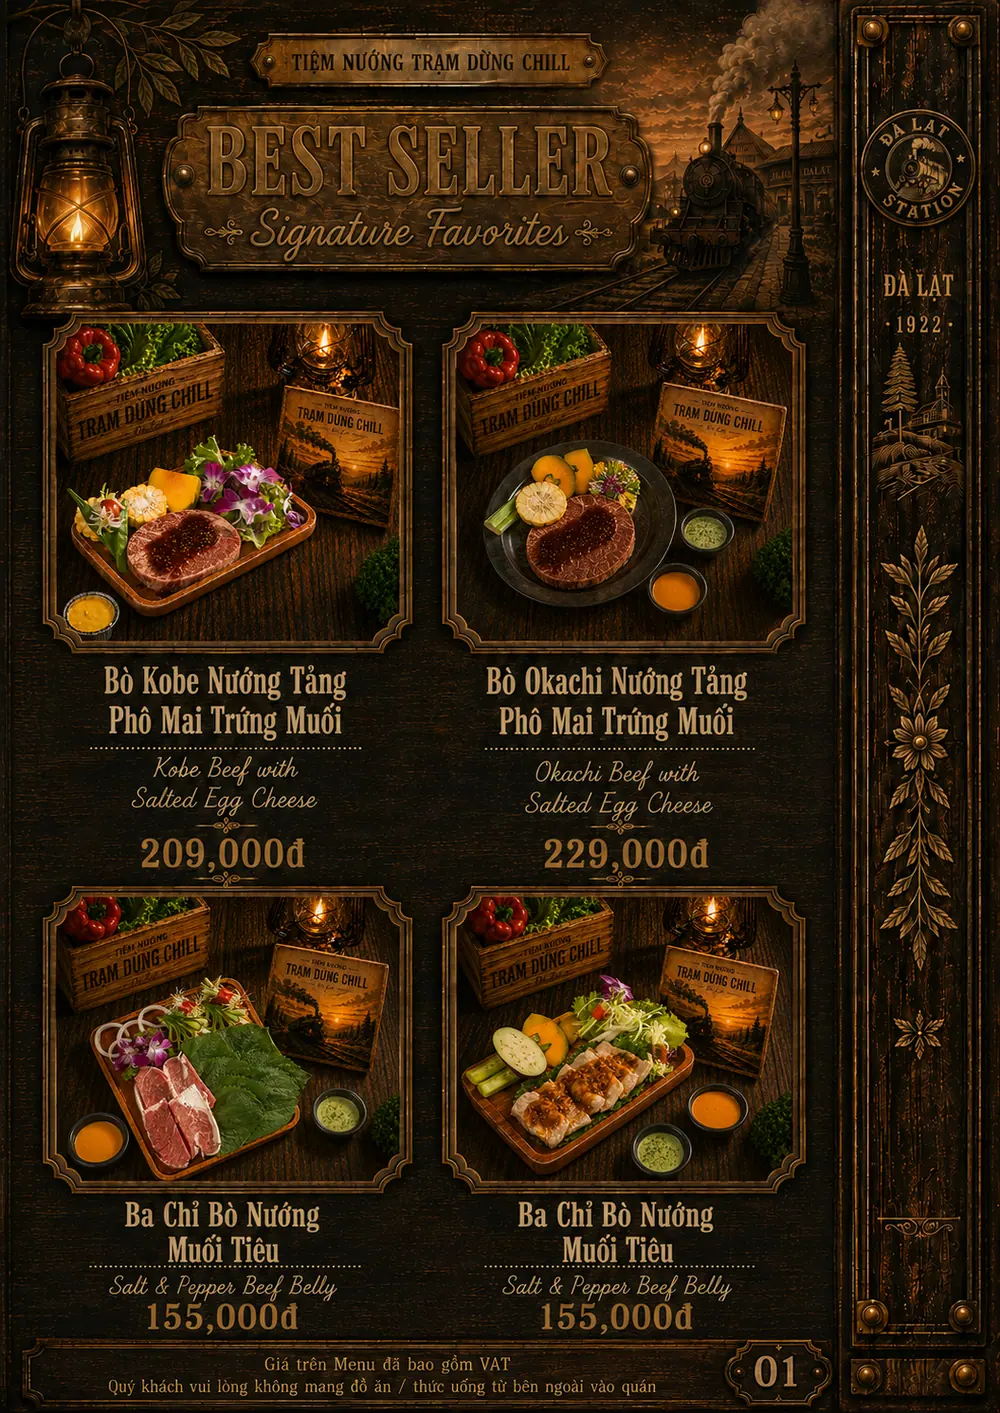
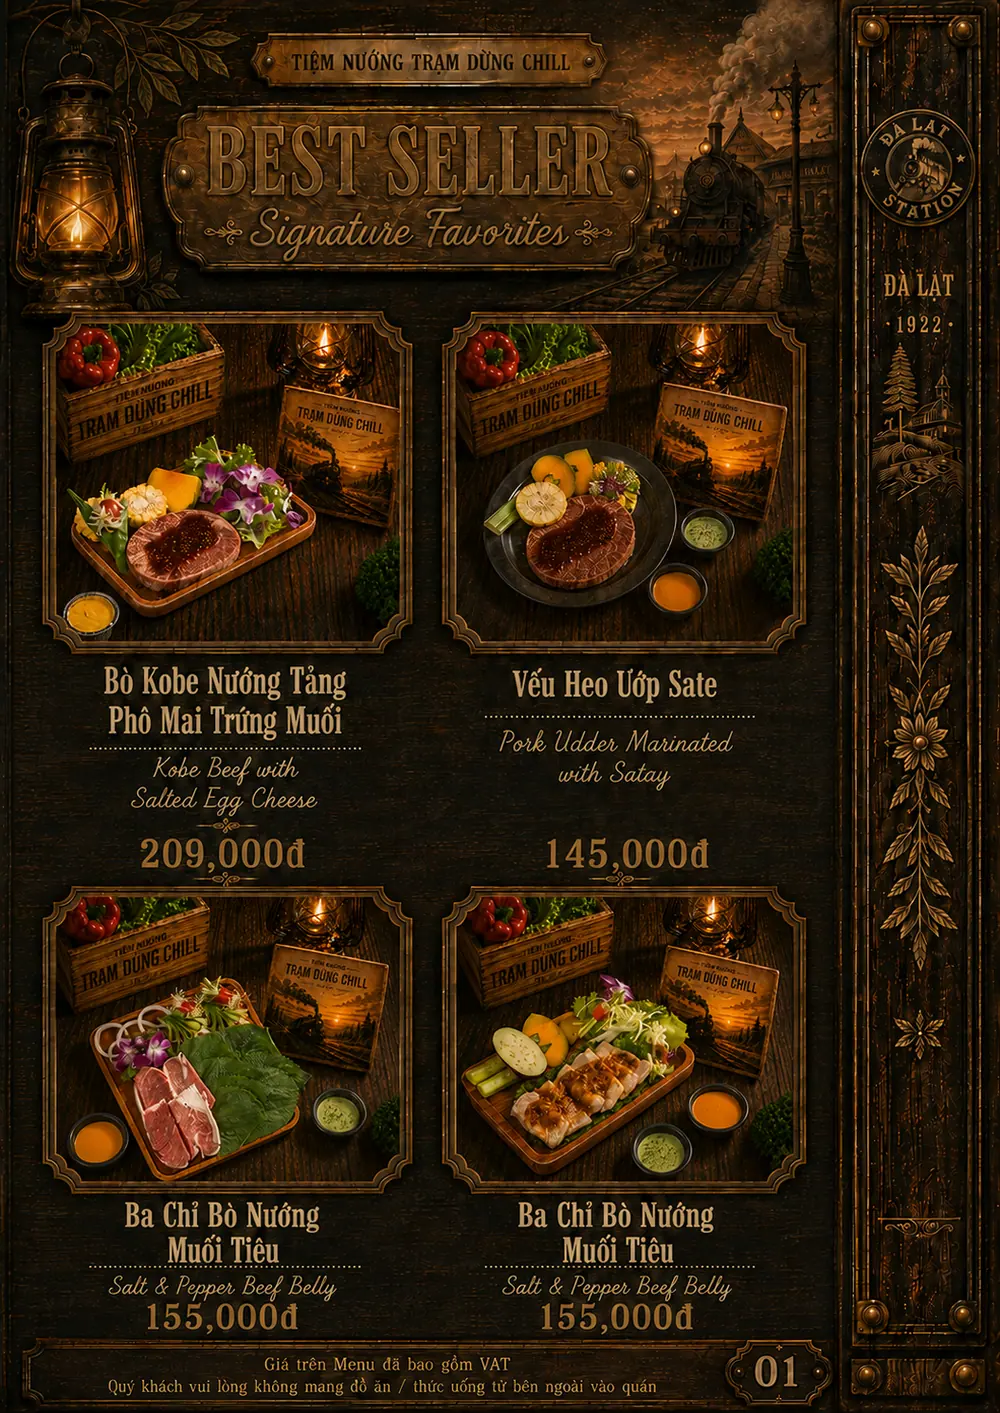
feat(menu): trang best seller ban 16:52 — o thu hai da dung Veu Heo Uop Sate
Ban nay sua duoc mot o: o thu hai gio ghi dung "Veu Heo Uop Sate / Pork Udder
Marinated with Satay / 145,000d" kem anh mon that.

NHUNG trang van chua khop ban in:
- Mat "Bo Okachi Nuong Tang Pho Mai Trung Muoi 229,000d".
- O thu tu van lap "Ba Chi Bo Nuong Muoi Tieu 155,000d" lan hai.
Ban in goc co du bon mon: Kobe 209K, Okachi 229K, Ba Chi Bo 155K, Veu Heo 145K.
Ban cu thieu Veu Heo, ban nay thieu Okachi — moi ban hut mot mon khac nhau.
Ca hai mon van nam trong menu-data.js va JSON-LD nen anh va du lieu con lech.

seo-geo-verify: 32/32 PASS

diff --git a/menu.html b/menu.html
@@ -1199,8 +1199,8 @@
                     <figcaption class="flip-page-caption">Trang 1/26 — Bìa</figcaption>
                 </figure>
                 <figure class="flip-page" data-page="2" data-group="bestseller" data-group-label="Best Seller" data-group-i18n="flip.group.bestseller">
-                    <img src="assets/menu-pages/menu-quan-nuong-da-lat-02-best-seller-bo-kobe-pho-mai-trung-muoi-1000.webp?v=314818ee"
-                         srcset="assets/menu-pages/menu-quan-nuong-da-lat-02-best-seller-bo-kobe-pho-mai-trung-muoi-560.webp?v=b359426b 560w, assets/menu-pages/menu-quan-nuong-da-lat-02-best-seller-bo-kobe-pho-mai-trung-muoi-1000.webp?v=314818ee 1000w"
+                    <img src="assets/menu-pages/menu-quan-nuong-da-lat-02-best-seller-bo-kobe-pho-mai-trung-muoi-1000.webp?v=8878afb1"
+                         srcset="assets/menu-pages/menu-quan-nuong-da-lat-02-best-seller-bo-kobe-pho-mai-trung-muoi-560.webp?v=0e93d63f 560w, assets/menu-pages/menu-quan-nuong-da-lat-02-best-seller-bo-kobe-pho-mai-trung-muoi-1000.webp?v=8878afb1 1000w"
                          sizes="(min-width: 900px) 46vw, 92vw"
                          width="1055" height="1491"
                          alt="Trang best seller menu quán nướng Đà Lạt: bò Kobe nướng tảng phô mai trứng muối, bò Okachi nướng tảng, ba chỉ bò nướng muối tiêu, vếu heo ướp sate"
